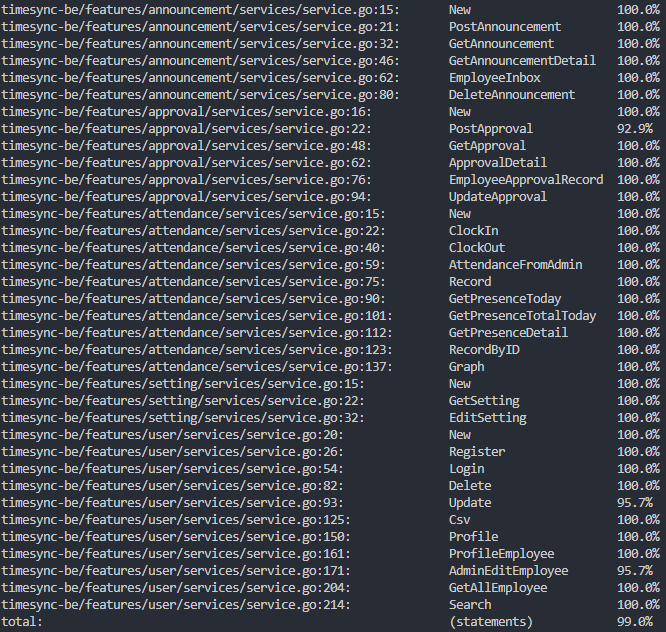
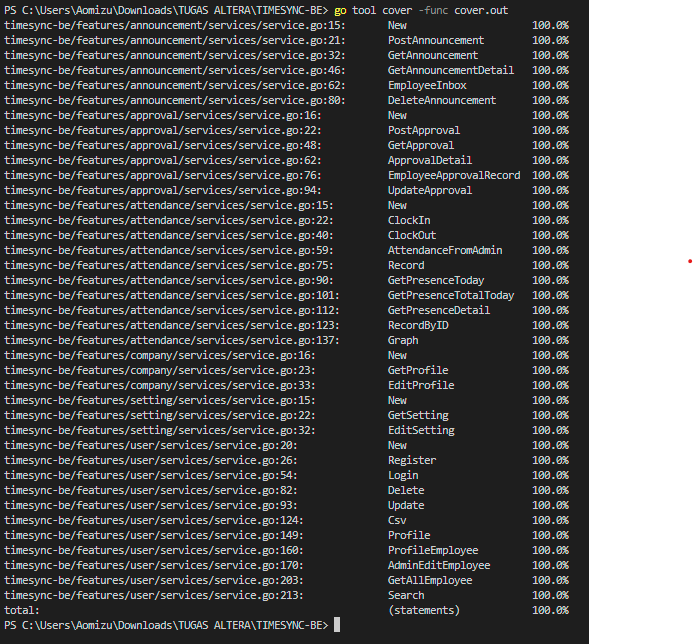
CHORE: Upgrade Unit testing

diff --git a/features/company/services/service_test.go b/features/company/services/service_test.go
@@ -102,7 +102,7 @@ func TestEditProfile(t *testing.T) {
 	})
 
 	t.Run("server problem", func(t *testing.T) {
-		repo.On("EditProfile", uint(1), inputData).Return(company.Core{}, errors.New("server problem"))
+		repo.On("EditProfile", uint(1), inputData).Return(company.Core{}, errors.New("query error, problem with server"))
 		srv := New(repo)
 
 		_, token := helper.GenerateToken(1)
@@ -111,7 +111,7 @@ func TestEditProfile(t *testing.T) {
 		res, err := srv.EditProfile(pToken, *imageTrueCnv, inputData)
 		assert.NotNil(t, err)
 		assert.Equal(t, uint(0), res.ID)
-		assert.ErrorContains(t, err, "server")
+		assert.Error(t, err)
 		repo.AssertExpectations(t)
 	})
 	t.Run("access denied", func(t *testing.T) {
@@ -127,6 +127,7 @@ func TestEditProfile(t *testing.T) {
 		assert.ErrorContains(t, err, "denied")
 		repo.AssertExpectations(t)
 	})
+
 	t.Run("invalid file validation", func(t *testing.T) {
 		filePathFake := filepath.Join("..", "..", "..", "TimeSyncUnitTesting.csv")
 		headerFake, err := helper.UnitTestingUploadFileMock(filePathFake)
@@ -143,21 +144,34 @@ func TestEditProfile(t *testing.T) {
 		repo.AssertExpectations(t)
 
 	})
-	t.Run("invalid file validation", func(t *testing.T) {
-		filePathFake := filepath.Join("..", "..", "..", "Samurai Ghost Mask.png")
-		headerFake, err := helper.UnitTestingUploadFileMock(filePathFake)
-		if err != nil {
-			log.Panic("dari file header unit testing approval", err.Error())
-		}
+	t.Run("access denied", func(t *testing.T) {
+		repo.On("EditProfile", uint(2), company.Core{}).Return(company.Core{}, errors.New("no data updated"))
 		srv := New(repo)
-		_, token := helper.GenerateToken(1)
+
+		_, token := helper.GenerateToken(2)
 		pToken := token.(*jwt.Token)
 		pToken.Valid = true
-		res, err := srv.EditProfile(pToken, *headerFake, inputData)
-		assert.ErrorContains(t, err, "size")
-		assert.Error(t, err)
+		res, err := srv.EditProfile(pToken, *imageTrueCnv, company.Core{})
+		assert.NotNil(t, err)
 		assert.Equal(t, uint(0), res.ID)
+		assert.ErrorContains(t, err, "no data updated")
 		repo.AssertExpectations(t)
-
 	})
+	// t.Run("invalid file validation", func(t *testing.T) {
+	// 	filePathFake := filepath.Join("..", "..", "..", "Samurai Ghost Mask.png")
+	// 	headerFake, err := helper.UnitTestingUploadFileMock(filePathFake)
+	// 	if err != nil {
+	// 		log.Panic("dari file header unit testing approval", err.Error())
+	// 	}
+	// 	srv := New(repo)
+	// 	_, token := helper.GenerateToken(1)
+	// 	pToken := token.(*jwt.Token)
+	// 	pToken.Valid = true
+	// 	res, err := srv.EditProfile(pToken, *headerFake, inputData)
+	// 	assert.ErrorContains(t, err, "size")
+	// 	assert.Error(t, err)
+	// 	assert.Equal(t, uint(0), res.ID)
+	// 	repo.AssertExpectations(t)
+
+	// })
 }

diff --git a/helper/s3aws.go b/helper/s3aws.go
@@ -43,38 +43,36 @@ type UploadResult struct {
 // UPLOAD IMAGE PROGRESS
 // ======================================================================
 func GetUrlImagesFromAWS(fileData multipart.FileHeader) (string, error) {
-	if fileData.Filename == "" {
-		return "", errors.New("file name error")
-	}
-	if fileData.Size == 0 {
-		return "", errors.New("cannot insert empty file")
-	}
-	if fileData.Size > 500000 {
-		return "", errors.New("file size max 500kb")
-	}
-	file, err := fileData.Open()
-	if err != nil {
-		return "", errors.New("error open fileData")
-	}
-	// Validasi Type
-	tipeNameFile, err := TypeFile(file)
-	if err != nil {
-		return "", errors.New("file type error only jpg or png file can be upload")
-	}
-	defer file.Close()
 
-	log.Println("size:", fileData.Filename, file)
-	namaFile := GenerateRandomString()
-	namaFile = namaFile + tipeNameFile
-	fileData.Filename = namaFile
-	log.Println(namaFile)
-	file2, _ := fileData.Open()
-	defer file2.Close()
-	uploadURL, err := UploadToS3(fileData.Filename, file2)
-	if err != nil {
-		return "", errors.New("cannot upload to s3 server error")
+	if fileData.Filename != "" && fileData.Size != 0 {
+		if fileData.Size > 500000 {
+			return "", errors.New("file size max 500kb")
+		}
+		file, err := fileData.Open()
+		if err != nil {
+			return "", errors.New("error open fileData")
+		}
+		// Validasi Type
+		tipeNameFile, err := TypeFile(file)
+		if err != nil {
+			return "", errors.New("file type error only jpg or png file can be upload")
+		}
+		defer file.Close()
+
+		log.Println("size:", fileData.Filename, file)
+		namaFile := GenerateRandomString()
+		namaFile = namaFile + tipeNameFile
+		fileData.Filename = namaFile
+		log.Println(namaFile)
+		file2, _ := fileData.Open()
+		defer file2.Close()
+		uploadURL, err := UploadToS3(fileData.Filename, file2)
+		if err != nil {
+			return "", errors.New("cannot upload to s3 server error")
+		}
+		return uploadURL, nil
 	}
-	return uploadURL, nil
+	return "", nil
 }
 
 // ======================================================================

diff --git a/features/user/services/service.go b/features/user/services/service.go
@@ -99,13 +99,12 @@ func (uuc *userUseCase) Update(token interface{}, fileData multipart.FileHeader,
 	hashed := helper.GeneratePassword(updateData.Password)
 	updateData.Password = string(hashed)
 	log.Println("size:", fileData.Size)
-	if fileData.Size != 0 {
-		res, err := helper.GetUrlImagesFromAWS(fileData)
-		if err != nil {
-			return user.Core{}, errors.New("validate: " + err.Error())
-		}
-		updateData.ProfilePicture = res
+
+	url, err := helper.GetUrlImagesFromAWS(fileData)
+	if err != nil {
+		return user.Core{}, errors.New("validate: " + err.Error())
 	}
+	updateData.ProfilePicture = url
 	res, err := uuc.qry.Update(uint(employeeID), updateData)
 	if err != nil {
 		msg := ""
@@ -176,13 +175,13 @@ func (uuc *userUseCase) AdminEditEmployee(token interface{}, employeeID uint, fi
 	}
 	hashed := helper.GeneratePassword(updateData.Password)
 	updateData.Password = hashed
-	if fileData.Size != 0 {
-		res, err := helper.GetUrlImagesFromAWS(fileData)
-		if err != nil {
-			return user.Core{}, errors.New("validate: " + err.Error())
-		}
-		updateData.ProfilePicture = res
+	url, err := helper.GetUrlImagesFromAWS(fileData)
+	if err != nil {
+		return user.Core{}, errors.New("validate: " + err.Error())
 	}
+	updateData.ProfilePicture = url
+	// if fileData.Size != 0 {
+	// }
 	res, err := uuc.qry.UpdateByAdmin(uint(adminID), employeeID, updateData)
 	if err != nil {
 		msg := ""

diff --git a/features/company/services/service.go b/features/company/services/service.go
@@ -33,20 +33,22 @@ func (cuc *companyUseCase) GetProfile() (company.Core, error) {
 func (cuc *companyUseCase) EditProfile(token interface{}, fileData multipart.FileHeader, updateData company.Core) (company.Core, error) {
 	adminID := helper.ExtractToken(token)
 	// kondisi dibawah dilakukan agar foto bisa kosong dan agar unit testing tidak error
-	if fileData.Size != 0 {
-		res, err := helper.GetUrlImagesFromAWS(fileData)
-		if err != nil {
-			return company.Core{}, errors.New("validate: " + err.Error())
-		}
-		updateData.Picture = res
+	url, err := helper.GetUrlImagesFromAWS(fileData)
+	if err != nil {
+		return company.Core{}, errors.New("validate: " + err.Error())
 	}
+	updateData.Picture = url
+	// if fileData.Size != 0 {
+	// }
 	res, err := cuc.qry.EditProfile(uint(adminID), updateData)
 	if err != nil {
 		log.Println("query error")
 		if strings.Contains(err.Error(), "access") {
 			return company.Core{}, errors.New("access denied")
+		} else if strings.Contains(err.Error(), "no data") {
+			return company.Core{}, errors.New("no data updated")
 		} else {
-			return company.Core{}, errors.New("query error, problem with server")
+			return company.Core{}, err
 		}
 	}
 	return res, nil

diff --git a/features/user/services/service_test.go b/features/user/services/service_test.go
@@ -290,8 +290,8 @@ func TestAdminEditEmploye(t *testing.T) {
 	imageTrueCnv := &multipart.FileHeader{
 		Filename: imageTrue.Name(),
 	}
-	inputData := user.Core{ID: 1, Name: "Alif", Phone: "08123", ProfilePicture: "ERD.png"}
-	resData := user.Core{ID: 1, Name: "Alif", Phone: "08123", ProfilePicture: imageTrueCnv.Filename}
+	inputData := user.Core{ID: 1, Name: "Alif", Phone: "08123"}
+	resData := user.Core{ID: 1, Name: "Alif", Phone: "08123"}
 	t.Run("success updating account", func(t *testing.T) {
 		repo.On("UpdateByAdmin", uint(1), uint(1), inputData).Return(resData, nil).Once()
 		srv := New(repo)
@@ -352,7 +352,7 @@ func TestAdminEditEmploye(t *testing.T) {
 		pToken := token.(*jwt.Token)
 		pToken.Valid = true
 		res, err := srv.AdminEditEmployee(pToken, uint(1), *headerFake, inputData)
-		assert.ErrorContains(t, err, "validate")
+		assert.ErrorContains(t, err, "type")
 		assert.Equal(t, uint(0), res.ID)
 		repo.AssertExpectations(t)
 

diff --git a/features/approval/services/service.go b/features/approval/services/service.go
@@ -29,13 +29,13 @@ func (auc *approvalUseCase) PostApproval(token interface{}, fileData multipart.F
 	}
 
 	// kondisi dibawah dilakukan agar foto bisa kosong dan agar unit testing tidak error
-	if fileData.Size != 0 {
-		res, err := helper.GetUrlImagesFromAWS(fileData)
-		if err != nil {
-			return approval.Core{}, errors.New("validate: " + err.Error())
-		}
-		newApproval.ApprovalImage = res
+	url, err := helper.GetUrlImagesFromAWS(fileData)
+	if err != nil {
+		return approval.Core{}, errors.New("validate: " + err.Error())
 	}
+	newApproval.ApprovalImage = url
+	// if fileData.Size != 0 {
+	// }
 	res, err := auc.qry.PostApproval(uint(employeeID), newApproval)
 	if err != nil {
 		log.Println("cannot create approval", err.Error())

diff --git a/features/setting/services/service_test.go b/features/setting/services/service_test.go
@@ -54,6 +54,18 @@ func TestEditSetting(t *testing.T) {
 		assert.Equal(t, uint(0), res.ID)
 		data.AssertExpectations(t)
 	})
+	t.Run("validate", func(t *testing.T) {
+		inputDataFake := setting.Core{ID: 1, Start: "08:3", End: "16:30", Tolerance: 70, AnnualLeave: 14}
+		srv := New(data)
+		_, token := helper.GenerateToken(1)
+		mockToken := token.(*jwt.Token)
+		mockToken.Valid = true
+		res, err := srv.EditSetting(mockToken, inputDataFake)
+		assert.NotNil(t, err)
+		assert.ErrorContains(t, err, "validate")
+		assert.Equal(t, uint(0), res.ID)
+		data.AssertExpectations(t)
+	})
 
 }
 

diff --git a/features/company/handler/handler.go b/features/company/handler/handler.go
@@ -42,7 +42,7 @@ func (cc *companyController) EditProfile() echo.HandlerFunc {
 			} else if strings.Contains(err.Error(), "access") {
 				return c.JSON(http.StatusInternalServerError, map[string]interface{}{"message": err.Error()})
 			} else {
-				return c.JSON(http.StatusInternalServerError, map[string]interface{}{"message": "internal server error"})
+				return c.JSON(http.StatusInternalServerError, map[string]interface{}{"message": err.Error()})
 			}
 
 		}

diff --git a/features/approval/services/service_test.go b/features/approval/services/service_test.go
@@ -81,7 +81,7 @@ func TestPostApproval(t *testing.T) {
 		pToken := token.(*jwt.Token)
 		pToken.Valid = true
 		res, err := srv.PostApproval(pToken, *headerFake, inputData)
-		assert.ErrorContains(t, err, "validate")
+		assert.ErrorContains(t, err, "type")
 		assert.Equal(t, uint(0), res.ID)
 		repo.AssertExpectations(t)
 

diff --git a/features/company/data/query.go b/features/company/data/query.go
@@ -34,7 +34,7 @@ func (cq *companyQuery) EditProfile(adminID uint, updateData company.Core) (comp
 	err := qry.Error
 	if err != nil {
 		log.Println("update user query error", err.Error())
-		return company.Core{}, err
+		return company.Core{}, errors.New("server error")
 	}
 	result := DataToCore(cnv)
 	return result, nil
